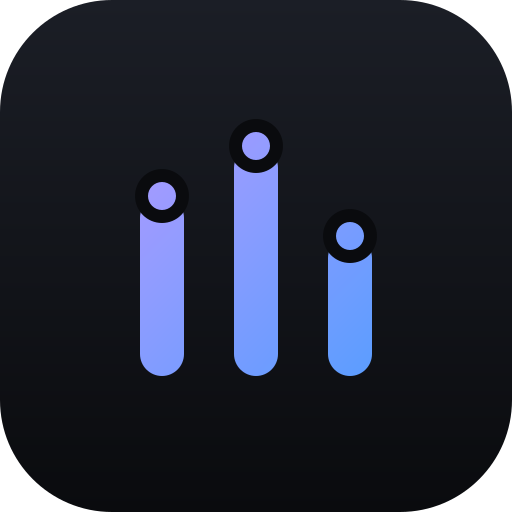
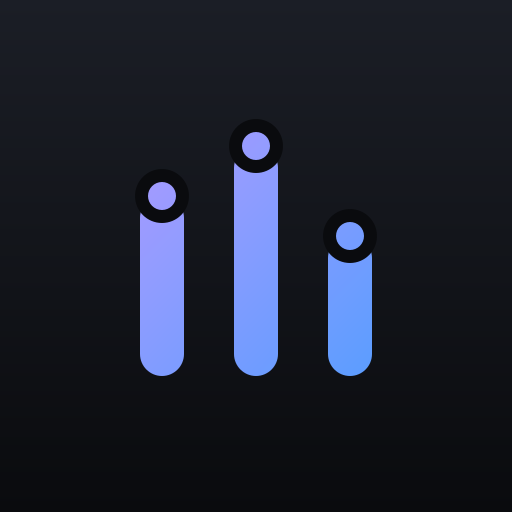
fix(sidebar): give the workspace row its space back
The workspace row is the one card this app draws by the dozen, and it was
paying for its inset twice: the nav already pads the rail by 12px, and the
shared `.card` added its own px-4 py-3.5 on top. On a phone's narrow rail
that is most of the width spent on nothing. The row now sets px-3 py-2.5 in
the utilities layer, which is what lets it win against `.card`.

Three things follow from the padding coming off.

The repo avatar loses `self-start`, which pinned it to the top of the text
column and left it high of the row's middle. Both lines beside it truncate,
so the column can never grow and centring can never drift.

The avatar's artwork treatment becomes a required prop rather than one
surface's taste. Five surfaces share `RepoAvatar` for its resolution ladder
-- five branches whose order has to match Conductor's, an authenticated
fetch, and a fallback for each way they fail -- and while the treatment had
a default, a change meant for the sidebar silently resized the repo filter,
the search results and both pickers in the New workspace sheet. The
workspace row asks for `full-bleed`; the other four ask for `inset`, which
holds a raster icon to the 18px the emoji and lucide glyphs draw at.

A full-bleed image needs its own rounded clip: WebKit drops a parent's on a
composited child, and `.card`'s active:scale makes the row exactly that.

That full bleed is also what exposed the icons. `public/apple-touch-icon.png`
[…]

diff --git a/web/src/components/ui.tsx b/web/src/components/ui.tsx
@@ -175,12 +175,31 @@ export function Spinner({ label }: { label?: string }) {
 const AVATAR_TILE = 'grid size-8 place-items-center overflow-hidden rounded-lg bg-surface-2 font-semibold text-muted'
 
 /**
+ * How a surface draws the *artwork* inside the tile. `inset` holds a raster icon to the
+ * 18px the emoji and lucide glyphs draw at, so a list mixing the two reads as one
+ * column; `full-bleed` gives that up for size.
+ *
+ * It is required rather than defaulted, and that is the point. Five surfaces share this
+ * component for its resolution, not for its looks, and while the treatment had a default
+ * the sidebar's answer was every other list's answer too — a change meant for the
+ * workspace row silently resized the repo filter, the search results and both pickers in
+ * the New workspace sheet. Naming it at the call site is what keeps one surface's taste
+ * from reaching the other four.
+ */
+export type RepoArtwork = 'inset' | 'full-bleed'
+
+/**
  * Repo avatar, mirroring Conductor's resolution: an emoji or named glyph the user
  * picked, else the repo's own icon file, else the GitHub owner's avatar, else a
  * letter monogram. Takes icon + name rather than a workspace so the repo picker
  * in NewWorkspaceSheet renders exactly the same glyphs as the workspace list.
+ *
+ * That ladder is why the surfaces share one component: five branches whose order has to
+ * match Conductor's, an authenticated fetch for the repo-file case, and a fallback for
+ * every way each can fail. Four copies of it would be four chances to disagree about
+ * which glyph a repo has. What is *not* shared is `artwork` — see above.
  */
-export function RepoAvatar({ icon, name }: { icon: RepoIcon | null; name: string }) {
+export function RepoAvatar({ icon, name, artwork }: { icon: RepoIcon | null; name: string; artwork: RepoArtwork }) {
 	const monogram = <div className={cn(AVATAR_TILE, 'text-xs')}>{(name.trim()[0] ?? '?').toUpperCase()}</div>
 	if (!icon) return monogram
 
@@ -203,29 +222,46 @@ export function RepoAvatar({ icon, name }: { icon: RepoIcon | null; name: string
 			<ImgTile
 				src={`https://github.com/${encodeURIComponent(icon.owner)}.png?size=64`}
 				fit="cover"
+				artwork={artwork}
 				fallback={monogram}
 			/>
 		)
 
 	// Relay-served repo file: fetched with the auth header (token stays out of the URL). Monogram until then.
-	return <RepoFileIcon repoName={name} fallback={monogram} />
+	return <RepoFileIcon repoName={name} artwork={artwork} fallback={monogram} />
 }
 
-/**
- * A raster avatar tile that falls back to the monogram if the image fails to load.
- * The image is inset to the 18px the emoji and lucide glyphs are drawn at, or it fills
- * the tile edge to edge and reads at nearly twice their size in the same list.
- */
-function ImgTile({ src, fit, fallback }: { src: string; fit: 'cover' | 'contain'; fallback: ReactNode }) {
+/** A raster avatar tile that falls back to the monogram if the image fails to load. */
+function ImgTile({
+	src,
+	fit,
+	artwork,
+	fallback
+}: {
+	src: string
+	fit: 'cover' | 'contain'
+	artwork: RepoArtwork
+	fallback: ReactNode
+}) {
 	const [failed, setFailed] = useState(false)
 	if (failed) return <>{fallback}</>
 	return (
-		<div className={cn(AVATAR_TILE, 'p-1.5')}>
+		<div className={cn(AVATAR_TILE, artwork === 'inset' && 'p-1.5')}>
+			{/* A full-bleed image reaches the tile's corners, so it takes the tile's own radius
+			    (`inherit`, not a second `rounded-lg`, so one value governs both) — and it needs
+			    its own copy, because WebKit drops a parent's rounded clip on a composited child
+			    and `.card`'s `active:scale-[0.985]` makes the workspace row exactly that.
+			    An inset one is a 20px box floating clear of those corners, where the same 8px
+			    reads as 40% of the artwork; it gets a radius proportional to itself instead. */}
 			<img
 				src={src}
 				alt=""
 				loading="lazy"
-				className={cn('size-full', fit === 'cover' ? 'object-cover' : 'object-contain')}
+				className={cn(
+					'size-full',
+					artwork === 'full-bleed' ? 'rounded-[inherit]' : 'rounded-sm',
+					fit === 'cover' ? 'object-cover' : 'object-contain'
+				)}
 				onError={() => setFailed(true)}
 			/>
 		</div>
@@ -233,8 +269,16 @@ function ImgTile({ src, fit, fallback }: { src: string; fit: 'cover' | 'contain'
 }
 
 /** Repo icon served by the relay, fetched with the auth header. Shows the monogram while loading or on error. */
-function RepoFileIcon({ repoName, fallback }: { repoName: string | null; fallback: ReactNode }) {
+function RepoFileIcon({
+	repoName,
+	artwork,
+	fallback
+}: {
+	repoName: string | null
+	artwork: RepoArtwork
+	fallback: ReactNode
+}) {
 	const { data, isError } = useRepoIcon(repoName)
 	if (!repoName || isError || !data) return <>{fallback}</>
-	return <ImgTile src={data} fit="contain" fallback={fallback} />
+	return <ImgTile src={data} fit="contain" artwork={artwork} fallback={fallback} />
 }

diff --git a/web/src/components/WorkspaceList.tsx b/web/src/components/WorkspaceList.tsx
@@ -26,7 +26,7 @@ import { Header } from './Header.tsx'
 import { LogsSheet } from './LogsSheet.tsx'
 import { NewWorkspaceSheet } from './NewWorkspaceSheet.tsx'
 import { SearchSheet } from './SearchSheet.tsx'
-import { Badge, Chip, Empty, RelayUnreachable, RepoAvatar, Spinner, StatusDot } from './ui.tsx'
+import { Badge, Empty, RelayUnreachable, RepoAvatar, Spinner, StatusDot } from './ui.tsx'
 
 /** Pinned first (matches the relay's order), then the chosen sort key. */
 function sortWorkspaces(list: Workspace[], sortBy: SortBy): Workspace[] {
@@ -247,10 +247,14 @@ export function WorkspaceList({ selectedId }: { selectedId?: string }) {
 											const unread = unreadCount(w, readMarks)
 											return (
 												<li key={w.id} className="fade-in">
+													{/* Tighter than the shared `.card` (px-4 py-3.5): this row is the one
+													    card the app draws by the dozen, and the nav already pads it by 12px,
+													    so the card's own inset was double-spending the phone's narrow rail.
+													    `p-2` sits in the utilities layer, which is what lets it win. */}
 													<button
 														type="button"
 														className={cn(
-															'card w-full',
+															'card w-full px-3 py-2.5',
 															w.id === selectedId ? 'border-accent/50 bg-surface-2' : unread && 'border-l-accent'
 														)}
 														onClick={() => open(w.id)}
@@ -410,7 +414,7 @@ function RepoFilter({
 							key={repo.name}
 							checked={selected.includes(repo.name)}
 							label={repo.name}
-							icon={<RepoAvatar icon={repo.icon} name={repo.name} />}
+							icon={<RepoAvatar icon={repo.icon} name={repo.name} artwork="inset" />}
 							onChange={() => toggle(repo.name)}
 						/>
 					))}
@@ -546,16 +550,19 @@ function WorkspaceCard({
 	const model = modelLabel(w.model, catalogFor(modelGroups, w.agent_type))
 	return (
 		<>
-			<div className="relative shrink-0 self-start">
-				<RepoAvatar icon={w.icon} name={w.repo_name || workspaceTitle(w)} />
+			{/* No `self-start`: it pinned the tile to the top of the text column and left it
+			    high of the row's middle. Both lines beside it are single-line (truncate), so
+			    the column can never grow and centring can never drift. */}
+			<div className="relative shrink-0">
+				<RepoAvatar icon={w.icon} name={w.repo_name || workspaceTitle(w)} artwork="full-bleed" />
 				{/* `bg-surface` fills the spinner's hollow centre so the avatar doesn't show through it. */}
 				<StatusDot w={w} className="absolute -right-0.5 -bottom-0.5 bg-surface ring-2 ring-surface" />
 			</div>
-			<div className="min-w-0 flex-1 overflow-hidden">
+			<div className="min-w-0 flex-1 space-y-1.25 overflow-hidden">
 				<div className="flex items-center gap-2">
 					<span
 						className={cn(
-							'min-w-0 flex-1 truncate leading-none',
+							'min-w-0 flex-1 truncate text-sm leading-none',
 							unread ? 'font-bold' : 'font-medium',
 							unread || selected ? 'text-text' : 'text-muted'
 						)}
@@ -573,13 +580,13 @@ function WorkspaceCard({
 				{/* Age first: it is the one thing every row is scanned for, and the left edge is
 				    where that scan already is. The model sits at the right edge, where a column
 				    of marks reads at a glance and a long name has somewhere to truncate. */}
-				<div className="mt-1 flex min-w-0 items-center gap-2 text-xs text-muted">
+				<div className="flex min-w-0 items-end gap-2 text-xs text-muted">
 					<span className="shrink-0 text-[11px] text-faint">{relativeAge(w.updated_at)}</span>
 					{model ? (
-						<Chip className="ml-auto flex min-w-0 items-center gap-1 pl-1 font-sans">
+						<span className="ml-auto flex min-w-0 items-center gap-1 text-[11px]">
 							<ProviderMark agentType={w.agent_type} model={w.model} className="size-3" />
 							<span className="truncate">{model}</span>
-						</Chip>
+						</span>
 					) : null}
 				</div>
 			</div>

diff --git a/scripts/gen-icons.ts b/scripts/gen-icons.ts
@@ -6,15 +6,39 @@ import sharp from 'sharp'
 const pub = path.join(import.meta.dirname, '..', 'public')
 const svg = await readFile(path.join(pub, 'icon.svg'))
 
-const targets: { name: string; size: number; background?: string }[] = [
+/**
+ * The source SVG rounds its own background (`rx="112"`). That radius is right for an
+ * icon a browser draws as-is and wrong for one its consumer masks itself — and the two
+ * ways it goes wrong are different. Transparent corners under someone else's mask
+ * double-round: a visible bite where the two radii disagree. Corners *flattened* for
+ * iOS, which composites a transparent home-screen icon onto black, stop being corners at
+ * all and become four opaque wedges — which is what read as a black edge on the logo,
+ * because `resolveRepoIcon` (src/icons.ts) serves `public/apple-touch-icon.png` as this
+ * repo's own sidebar avatar and the phone clips it to `rounded-lg`. It was hidden while
+ * the tile inset the image by 6px and showed the moment that padding came off.
+ *
+ * So a masked target is rendered full-bleed and left to its consumer for the shape. The
+ * bars sit 167px from the centre against a 205px safe radius, so nothing is cropped.
+ */
+const rounded = svg.toString()
+const square = rounded.replace('<rect width="512" height="512" rx="112"', '<rect width="512" height="512" rx="0"')
+// Fail loud: a rename of that rect would otherwise ship rounded corners again in silence.
+if (square === rounded)
+	throw new Error('icon.svg: background rect not found, so the full-bleed variant is still rounded')
+const squareSvg = Buffer.from(square)
+
+const targets: { name: string; size: number; background?: string; fullBleed?: boolean }[] = [
+	// `purpose: any` (vite.config.ts) — drawn as-is, so these keep the icon's own shape.
 	{ name: 'icon-192.png', size: 192 },
 	{ name: 'icon-512.png', size: 512 },
-	{ name: 'icon-maskable-512.png', size: 512 },
-	{ name: 'apple-touch-icon.png', size: 180, background: '#0a0b0e' }
+	// `purpose: maskable` — Android crops this to whatever shape it likes.
+	{ name: 'icon-maskable-512.png', size: 512, fullBleed: true },
+	// iOS squircles the home-screen icon and rejects transparency, hence both flags.
+	{ name: 'apple-touch-icon.png', size: 180, background: '#0a0b0e', fullBleed: true }
 ]
 
 for (const t of targets) {
-	let pipe = sharp(svg, { density: 384 }).resize(t.size, t.size, { fit: 'contain' })
+	let pipe = sharp(t.fullBleed ? squareSvg : svg, { density: 384 }).resize(t.size, t.size, { fit: 'contain' })
 	if (t.background) pipe = pipe.flatten({ background: t.background })
 	const out = await pipe.png().toBuffer()
 	await writeFile(path.join(pub, t.name), out)

diff --git a/web/src/components/NewWorkspaceSheet.tsx b/web/src/components/NewWorkspaceSheet.tsx
@@ -278,7 +278,7 @@ export function NewWorkspaceSheet({ onClose }: { onClose: () => void }) {
 						aria-expanded={pickerOpen}
 						className="flex w-full items-center gap-3 rounded-2xl border border-border bg-surface px-3 py-2.5 text-left transition active:bg-surface-2"
 					>
-						{selected ? <RepoAvatar icon={selected.icon} name={selected.name} /> : null}
+						{selected ? <RepoAvatar icon={selected.icon} name={selected.name} artwork="inset" /> : null}
 						<span className="min-w-0 flex-1 truncate text-[15px] font-medium">{selected?.name ?? 'Choose a repo'}</span>
 						<ChevronDown size={18} className={cn('shrink-0 text-muted transition', pickerOpen && 'rotate-180')} />
 					</button>
@@ -295,7 +295,7 @@ export function NewWorkspaceSheet({ onClose }: { onClose: () => void }) {
 										}}
 										className="flex w-full items-center gap-3 px-3 py-2 text-left active:bg-surface-2"
 									>
-										<RepoAvatar icon={r.icon} name={r.name} />
+										<RepoAvatar icon={r.icon} name={r.name} artwork="inset" />
 										<span className="min-w-0 flex-1 truncate text-[15px]">{r.name}</span>
 										{r.name === repo ? <Check size={16} className="shrink-0 text-accent" /> : null}
 									</button>

diff --git a/web/src/components/AgentIcons.tsx b/web/src/components/AgentIcons.tsx
@@ -14,6 +14,18 @@ const PROVIDER_MARKS = {
 
 type Provider = keyof typeof PROVIDER_MARKS
 
+/**
+ * Claude's is the package's own `claude-color.svg` rather than a colour picked by eye.
+ * The other three ship no `-color.svg` at all — every path in them is
+ * `fill="currentColor"` — so OpenAI's white is a choice, not a brand value, and it holds
+ * only because this app has no light theme. `cursor` and `opencode` stay whatever the
+ * surface around them is.
+ */
+const PROVIDER_COLORS: Partial<Record<Provider, string>> = {
+	claude: '#D97757',
+	openai: '#FFF'
+}
+
 function providerFor(agentType: string | null, model: string | null): Provider | undefined {
 	const label = model?.toLowerCase() ?? ''
 	if (/^(?:anthropic\/|claude|fable|haiku|opus|sonnet)/.test(label)) return 'claude'
@@ -48,6 +60,8 @@ export function ProviderMark({
 			aria-hidden="true"
 			className={cn('inline-block shrink-0 bg-current', className)}
 			style={{
+				// `bg-current` paints the mask, so the tint is a `color` on the same element.
+				color: PROVIDER_COLORS[provider],
 				WebkitMaskImage: `url("${source}")`,
 				maskImage: `url("${source}")`,
 				WebkitMaskPosition: 'center',

diff --git a/web/src/components/SearchPane.tsx b/web/src/components/SearchPane.tsx
@@ -154,7 +154,7 @@ function ResultRow({
 	const body = (
 		<>
 			<div className="flex items-start gap-3">
-				<RepoAvatar icon={w.icon} name={w.repo_name || workspaceTitle(w)} />
+				<RepoAvatar icon={w.icon} name={w.repo_name || workspaceTitle(w)} artwork="inset" />
 				<div className="min-w-0 flex-1 overflow-hidden">
 					<div className="flex items-center gap-2">
 						<span className="min-w-0 flex-1 truncate font-medium text-text">{workspaceTitle(w)}</span>
